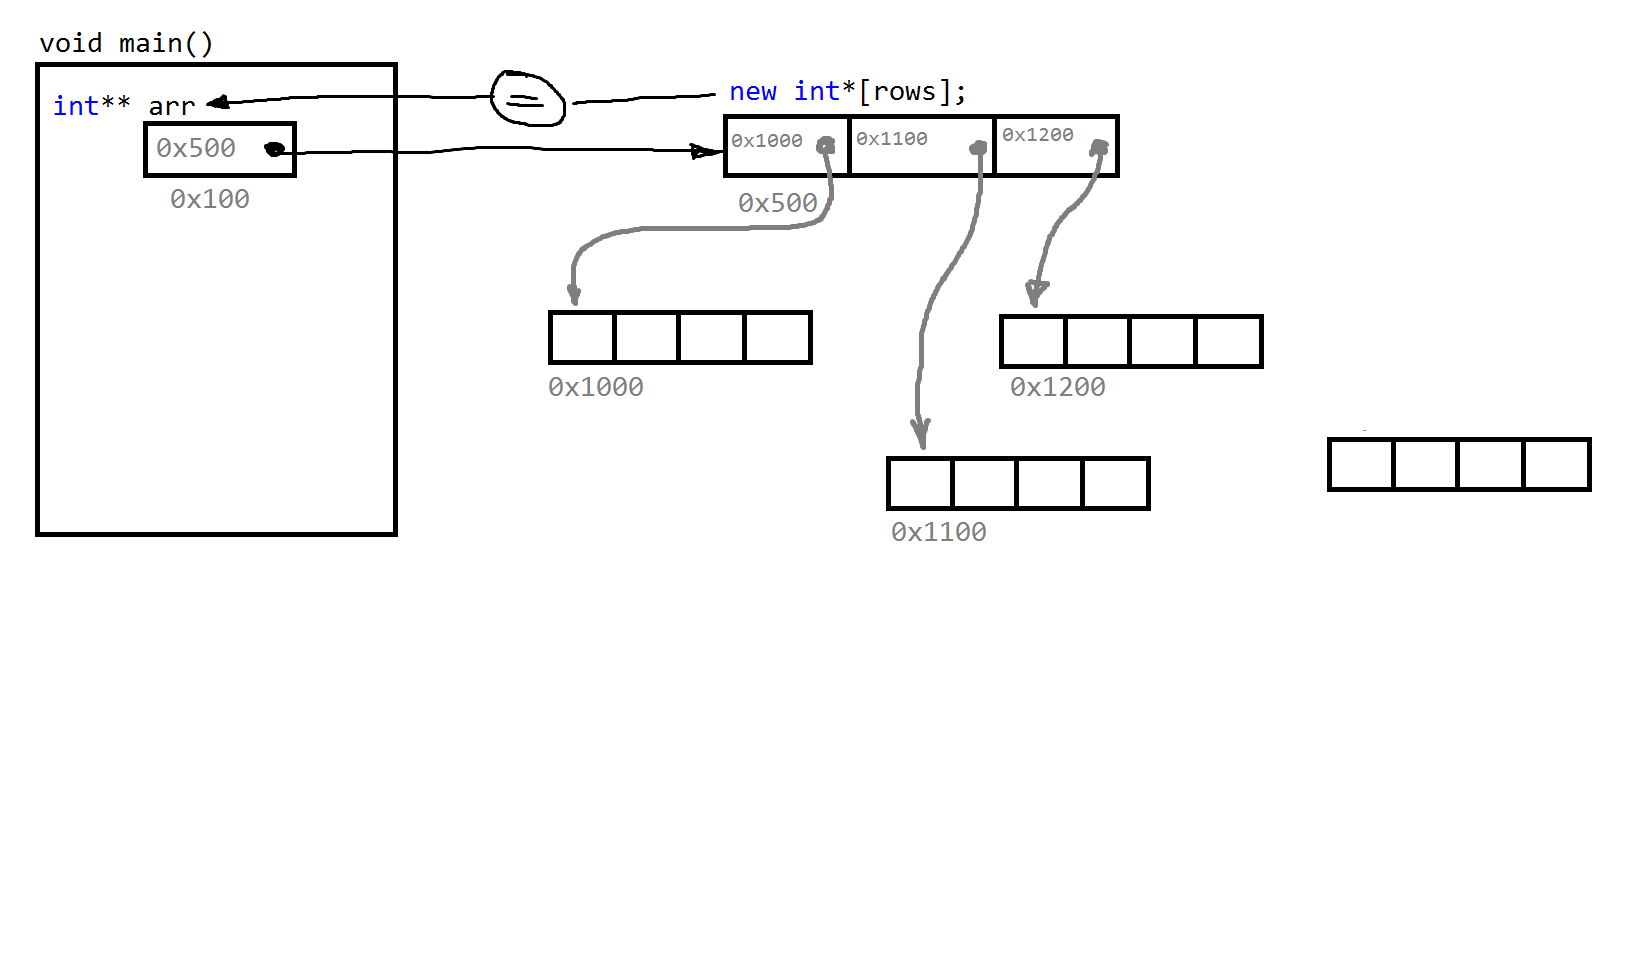
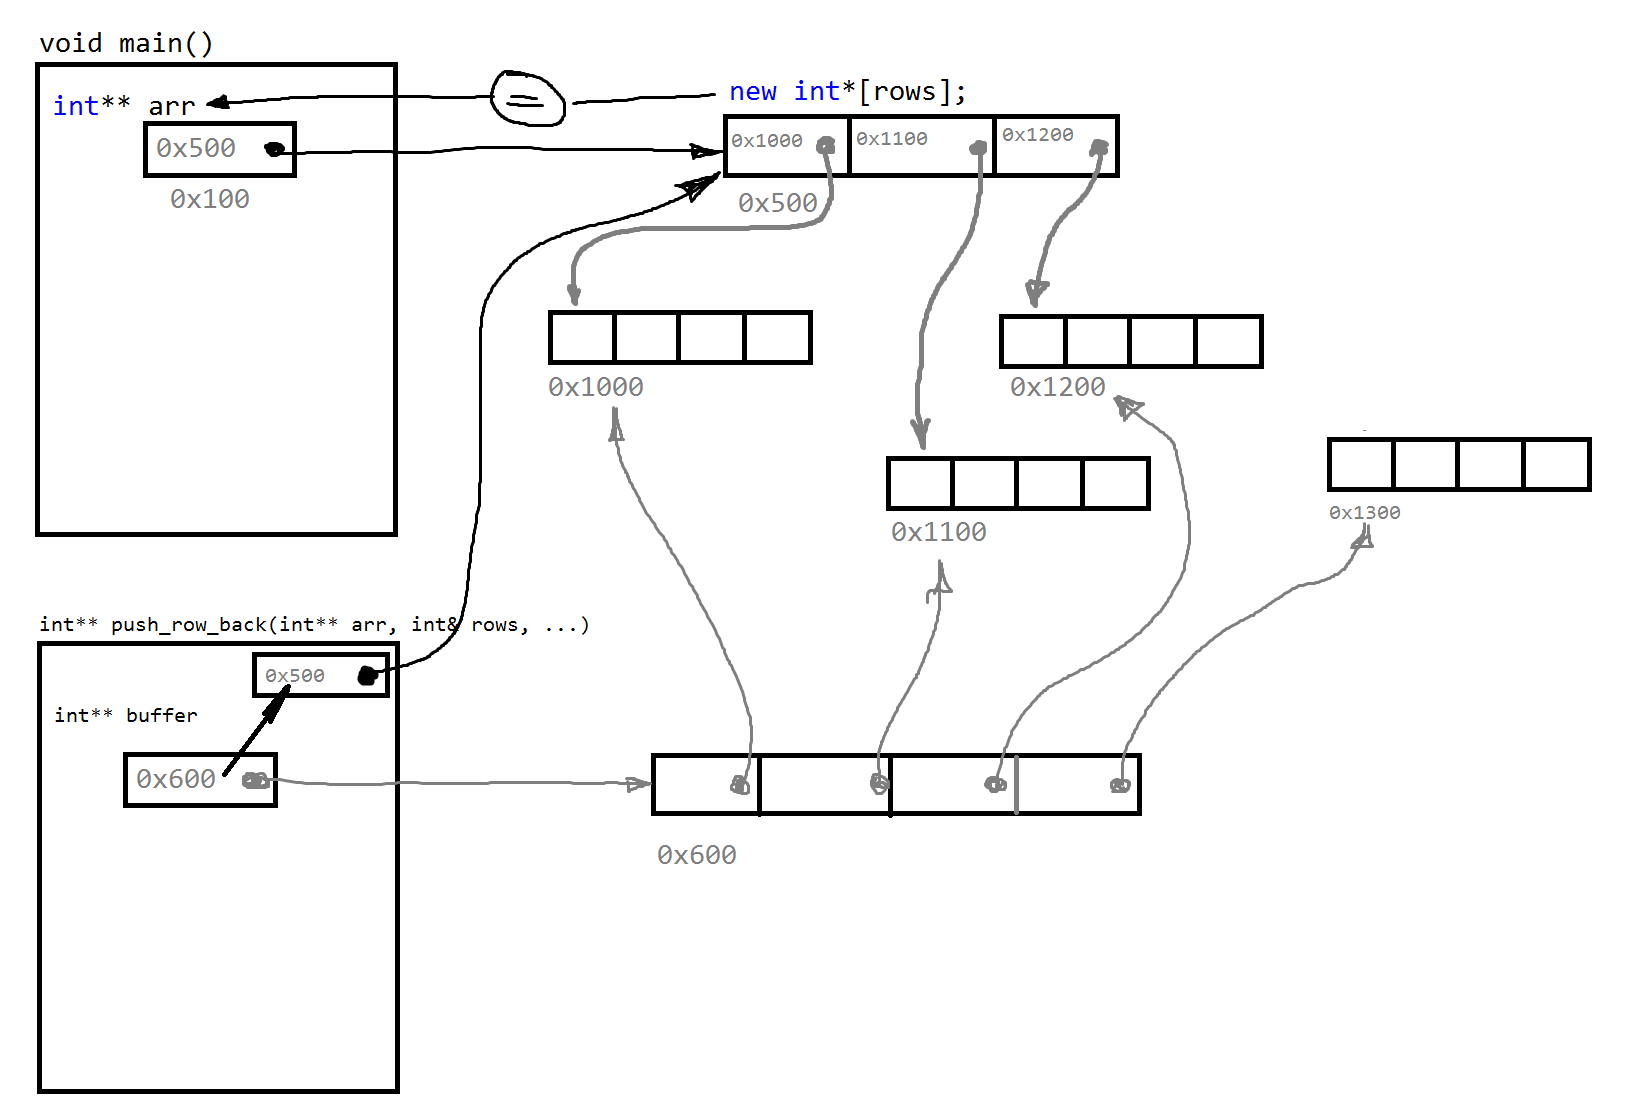
push_col_back

diff --git a/Pointers/DynamicMemory/main.cpp b/Pointers/DynamicMemory/main.cpp
@@ -7,7 +7,10 @@ using std::endl;
 #define tab "\t"
 #define delimiter "\n-------------------------------------\n"
 
-void FillRand(int arr[], const int n);
+int** allocate(const int rows, const int cols);
+void clear(int** arr, const int rows);
+
+void FillRand(int arr[], const int n, int minRand = 0, int maxRand = 100);
 void FillRand(int** arr, const int rows, const int cols);
 void Print(int* arr, const int n);
 void Print(int** arr, const int rows, const int cols);
@@ -20,6 +23,12 @@ int* pop_back(int* arr, int& n);
 int* pop_front(int* arr, int& n);
 
 int** push_row_back(int** arr, int& rows, const int cols);
+int** push_row_front(int** arr, int& rows, const int cols);
+int** insert(int** arr, int& rows, const int cols, const int index);
+
+int** pop_row_back(int** arr, int& rows, const int cols);
+
+void push_col_back(int** arr, const int rows, int& cols);
 
 //#define DYNAMIC_MEMORY_1
 #define DYNAMIC_MEMORY_2
@@ -66,19 +75,50 @@ void main()
 	cout << "Введите количество строк: "; cin >> rows;
 	cout << "Введите количество элементов строки: "; cin >> cols;
 
+	int** arr = allocate(rows, cols);
+
+	FillRand(arr, rows, cols);
+	Print(arr, rows, cols);
+
+	cout << delimiter << endl;
+	arr = push_row_back(arr, rows, cols);
+	FillRand(arr[rows - 1], cols, 900, 1000);
+	Print(arr, rows, cols);
+
+	cout << delimiter << endl;
+	arr = push_row_front(arr, rows, cols);
+	FillRand(arr[0], cols, 100, 200);
+	Print(arr, rows, cols);
+
+	int index;
+	cout << "Введите индекс добавляемой строки: "; cin >> index;
+	arr = insert(arr, rows, cols, index);
+	FillRand(arr[index], cols, 400, 500);
+	Print(arr, rows, cols);
+	cout << delimiter << endl;
+
+	arr = pop_row_back(arr, rows, cols);
+	Print(arr, rows, cols);
+	cout << delimiter << endl;
+
+	push_col_back(arr, rows, cols);
+	Print(arr, rows, cols);
+
+	clear(arr, rows);
+}
+
+int** allocate(const int rows, const int cols)
+{
 	int** arr = new int*[rows];	//создаем массив указателей
 	for (int i = 0; i < rows; i++)
 	{
 		//создаем строки двумерного массива:
 		arr[i] = new int[cols];
 	}
-
-	FillRand(arr, rows, cols);
-	Print(arr, rows, cols);
-	cout << delimiter << endl;
-	arr = push_row_back(arr, rows, cols);
-	Print(arr, rows, cols);
-
+	return arr;
+}
+void clear(int** arr, const int rows)
+{
 	//1) удаляем строки двумерного массива:
 	for (int i = 0; i < rows; i++)
 	{
@@ -88,13 +128,13 @@ void main()
 	delete[] arr;
 }
 
-void FillRand(int arr[], const int n)
+void FillRand(int arr[], const int n, int minRand, int maxRand)
 {
 	cout << typeid(arr).name() << endl;
 	for (int i = 0; i < n; i++)
 	{
 		//Через арифметику указателей и оператор разыменования:
-		*(arr + i) = rand() % 100;
+		*(arr + i) = rand() % (maxRand - minRand) + minRand;
 	}
 }
 void FillRand(int** arr, const int rows, const int cols)
@@ -216,4 +256,48 @@ int** push_row_back(int** arr, int& rows, const int cols)
 	rows++;
 	//7) Mission complete - строка добавлена. Возвращаем новый массив:
 	return arr;
+}
+int** push_row_front(int** arr, int& rows, const int cols)
+{
+	int** buffer = new int*[rows + 1];
+	for (int i = 0; i < rows; i++)buffer[i + 1] = arr[i];
+	delete[] arr;
+	arr = buffer;
+	arr[0] = new int[cols] {};
+	rows++;
+	return arr;
+}
+int** insert(int** arr, int& rows, const int cols, const int index)
+{
+	int** buffer = new int*[rows + 1];
+	for (int i = 0; i < index; i++)buffer[i] = arr[i];
+	for (int i = index; i < rows; i++)buffer[i + 1] = arr[i];
+	delete[] arr;
+	arr = buffer;
+	arr[index] = new int[cols] {};
+	rows++;
+	return arr;
+}
+
+int** pop_row_back(int** arr, int& rows, const int cols)
+{
+	//1) Удаляем последнюю строку из памяти:
+	delete[] arr[rows - 1];
+	//2) Переопределяем массив указателей:
+	int** buffer = new int*[--rows];
+	for (int i = 0; i < rows; i++)buffer[i] = arr[i];
+	delete[] arr;
+	return buffer;
+}
+
+void push_col_back(int** arr, const int rows, int& cols)
+{
+	for (int i = 0; i < rows; i++)
+	{
+		int* buffer = new int[cols + 1]{};
+		for (int j = 0; j < cols; j++)buffer[j] = arr[i][j];
+		delete[] arr[i];
+		arr[i] = buffer;
+	}
+	cols++;
 }
